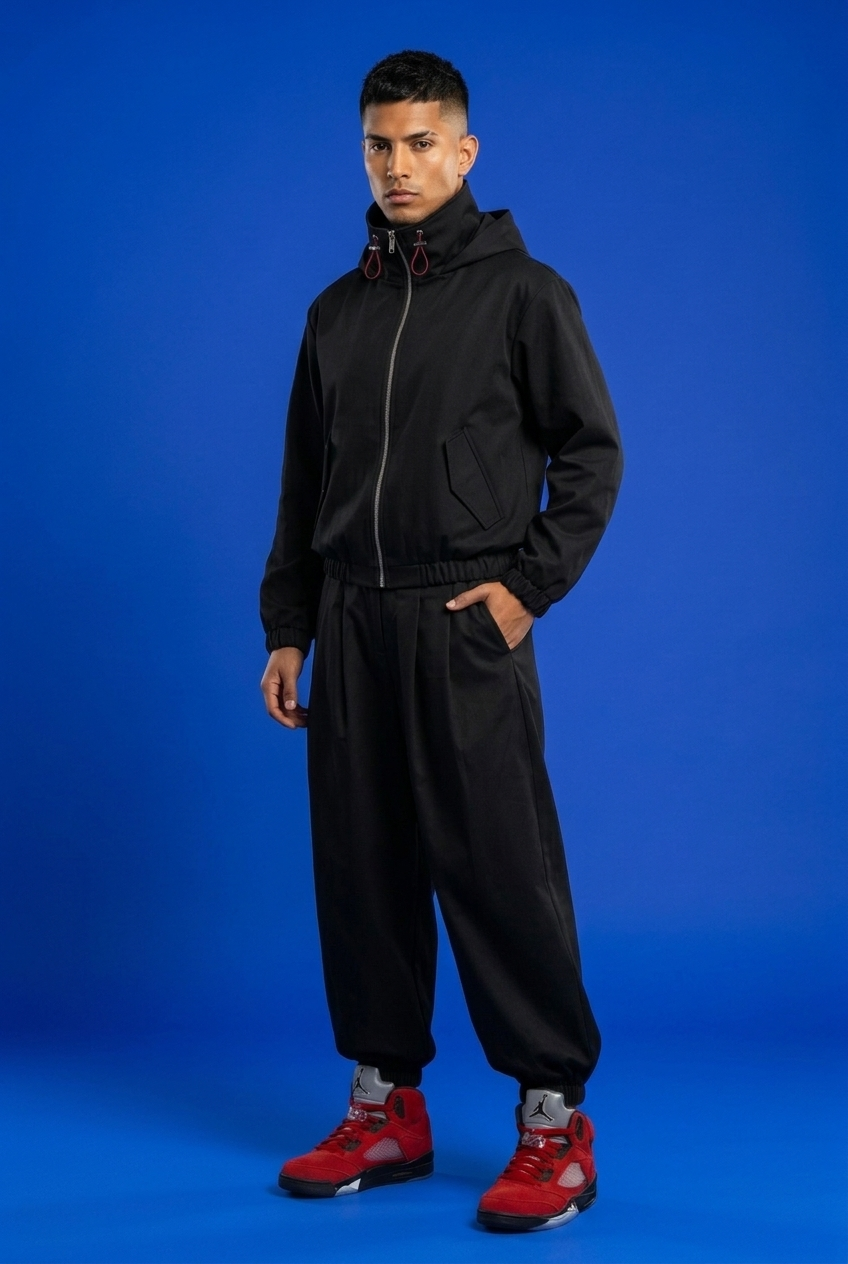
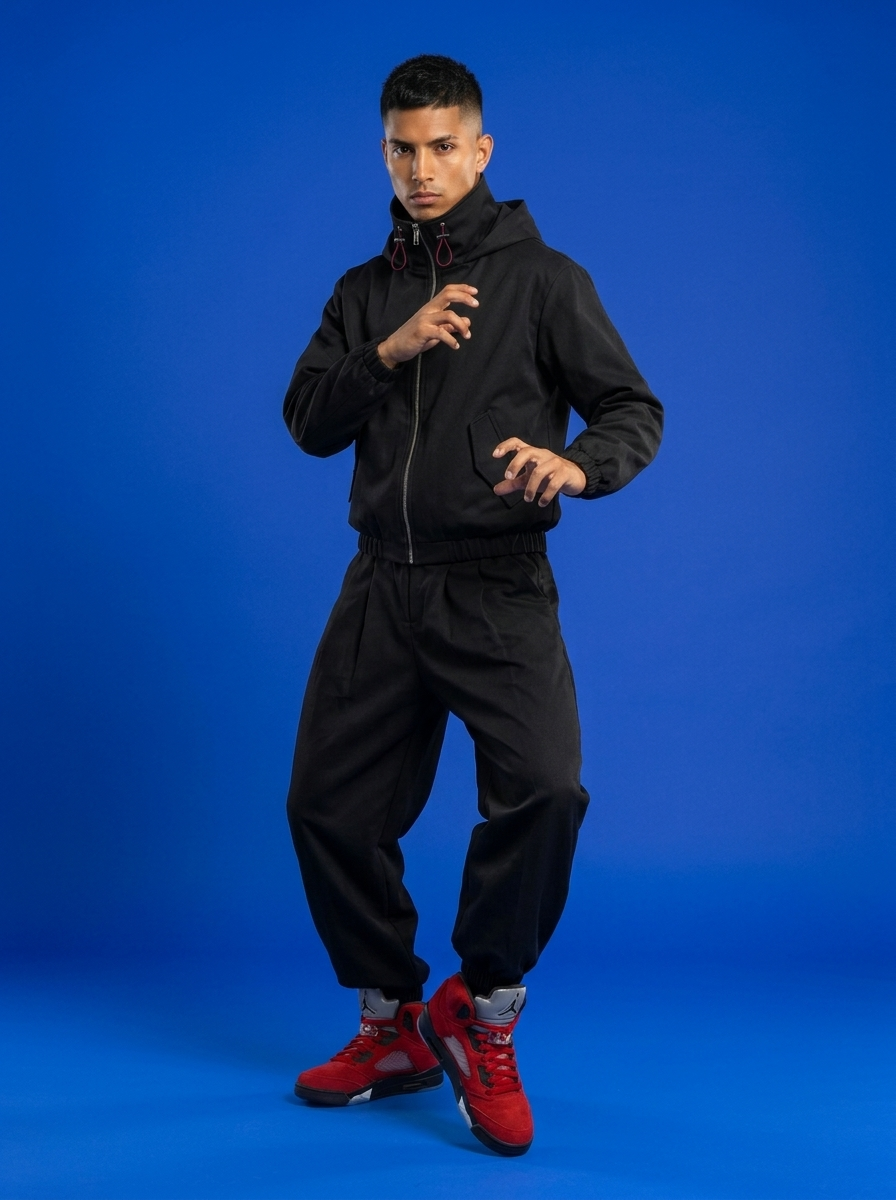
feat(kokusen): actualizar fotografia editorial masculina con pose canónica de combate Jujutsu
- Reemplazar 09-foto-realista-kokusen-hombre.jpg con pose marcial de combate de Yuji Itadori (brazo alzado en guardia con garra, brazo bajo y flexión dinámica de pies)
- Preservar versión anterior en assets/.archive/09-foto-realista-kokusen-hombre-pose-bolsillo.jpg
- Registrar referencia refe-pose-combate-yuji.jpg en references/
- Actualizar SPEC.md, manifest.json e index.ts con la nueva pose y referencias

Changed region(s): [[0.2146, 0.0308, 0.7665, 0.9867], [0.0, 0.8017, 0.0613, 0.8325], [0.5212, 0.5242, 0.5519, 0.555]]

diff --git a/Andreart Brain/01 Brand Context/Colecciones/Kokusen/index.ts b/Andreart Brain/01 Brand Context/Colecciones/Kokusen/index.ts
@@ -166,8 +166,8 @@ export const ASSETS: Record<string, CollectionAsset> = {
     category: 'editorial',
     garment: 'Conjunto Kokusen',
     view: 'editorial-lookbook-hombre',
-    description: 'Fotografía editorial ultra-realista con modelo masculino hispano con corte undercut sobre ciclorama sinfín azul estudio impecable (cero humo), pose de combate Yuji Itadori con mano en el bolsillo, vistiendo el conjunto Kokusen completo y zapatillas Air Jordan 5 Retro Red Suede.',
-    sourceReference: './references/refe-pantalon-globo-02.jpg, ./references/refe-calzado-jordan-5-red-suede.jpg',
+    description: 'Fotografía editorial ultra-realista con modelo masculino hispano con corte undercut sobre ciclorama sinfín azul estudio impecable (cero humo), adoptando fielmente la pose de combate marcial de Yuji Itadori (brazo derecho alzado en guardia a la altura del pecho con garra abierta, brazo izquierdo bajo y juego dinámico de pies), vistiendo el conjunto Kokusen completo y zapatillas Air Jordan 5 Retro Red Suede.',
+    sourceReference: './references/refe-pose-combate-yuji.jpg, ./references/refe-calzado-jordan-5-red-suede.jpg',
     status: 'active',
     approved: true
   }
@@ -191,5 +191,11 @@ export const REFERENCES: Record<string, CollectionReference> = {
     path: './references/refe-calzado-jordan-5-red-suede.jpg',
     type: 'footwear-styling',
     description: 'Referencia de calzado insignia: Zapatillas Air Jordan 5 Retro Red Suede en gamuza carmesí (#D01E29), lengüeta reflectiva plateada 3M y seguro de cordones transparente.'
+  },
+  'refe-pose-combate-yuji': {
+    filename: 'refe-pose-combate-yuji.jpg',
+    path: './references/refe-pose-combate-yuji.jpg',
+    type: 'pose-combat-reference',
+    description: 'Referencia de pose de combate: Postura marcial de Yuji Itadori con guardia frontal alta con garra abierta, brazo bajo en cadera y juego ágil de pies en flexión cinética.'
   }
 };

diff --git a/Andreart Brain/01 Brand Context/Colecciones/Kokusen/SPEC.md b/Andreart Brain/01 Brand Context/Colecciones/Kokusen/SPEC.md
@@ -83,9 +83,9 @@ Diseñado con dedicación artesanal y visión de autor para integrar la presenci
 ![[01 Brand Context/Colecciones/Kokusen/assets/08-foto-realista-kokusen-hero.jpg]]
 *Fotografía Editorial Realista (Mujer):* Modelo de apariencia hispana/latina luciendo el conjunto Kokusen completo en estudio de alta costura sobre fondo sinfín azul estudio impecable (cero humo): blouson técnico en sarga pesada con cuello chimenea estructurado (11 cm), cremallera central continua metálica, tancas carmesí y capota integrada, combinado con el nuevo Pantalón Globo Plisado Kokusen v1.5 con cintura encauchada fruncida (sin cinturón) en postura inspirada en Yuji Itadori con una mano en el bolsillo, descansando sobre las zapatillas de autor **Air Jordan 5 Retro "Red Suede"** en gamuza roja escarlata con lengüeta reflectiva 3M.
 
-### Lookbook Hero: Modelo Masculino Hispano (Corte Undercut)
+### Lookbook Hero: Modelo Masculino Hispano (Pose de Combate Yuji Itadori)
 ![[01 Brand Context/Colecciones/Kokusen/assets/09-foto-realista-kokusen-hombre.jpg]]
-*Fotografía Editorial Realista (Hombre):* Modelo masculino de apariencia hispana/latina con corte undercut texturizado en los laterales y nuca, encarnando la versión de alta costura de Yuji Itadori en postura marcial erguida con la mano en el bolsillo del pantalón globo sobre fondo sinfín azul estudio sin humo, vistiendo el conjunto Kokusen completo y zapatillas **Air Jordan 5 Retro "Red Suede"**.
+*Fotografía Editorial Realista (Hombre):* Modelo masculino de apariencia hispana/latina con corte undercut moderno (laterales rebajados en fade limpio y textura superior definida), encarnando la versión de alta costura de Yuji Itadori en la pose exacta de combate marcial de Jujutsu: brazo derecho alzado en guardia a la altura del pecho con mano en garra abierta, brazo izquierdo bajo ceñido a la cadera, y postura ágil de pies con pierna frontal flexionada en torsión cinética. Todo sobre fondo sinfín azul eléctrico estudio (#0038FF) impecable (sin humo ambiental), vistiendo el conjunto Kokusen completo con pantalón globo de cintura encauchada y zapatillas **Air Jordan 5 Retro "Red Suede"**.
 
 ---
 
@@ -128,6 +128,9 @@ Diseñado con dedicación artesanal y visión de autor para integrar la presenci
 ![[01 Brand Context/Colecciones/Kokusen/references/refe-calzado-jordan-5-red-suede.jpg]]
 *Referencia Oficial de Calzado:* Zapatillas Air Jordan 5 Retro "Red Suede" en gamuza roja carmesí (#D01E29), lengüeta plateada reflectiva 3M, tanca de cordones transparente y dientes de tiburón negros en la media suela. Aporte clave de contraste dinámico para el arquetipo Itadori.
 
+![[01 Brand Context/Colecciones/Kokusen/references/refe-pose-combate-yuji.jpg]]
+*Referencia Oficial de Pose de Combate:* Postura marcial canónica de Yuji Itadori en combate Jujutsu con torso en ángulo 3/4, guardia frontal con mano en garra a la altura del pecho, brazo bajo en cadera y juego ágil de pies en flexión cinética.
+
 ---
 
 ## 🗂 4.3. Manifiesto y Barrel de Activos (`manifest.json` / `index.ts`)
@@ -144,7 +147,7 @@ La colección cuenta con un barrel tipado en TypeScript ([index.ts](file:///User
 | `06-sketch-pantalon-frente` | `06-sketch-pantalon-frente.jpg` | Plano Técnico (Delantero) | Pantalón Globo Plisado (Cintura Encauchada) | `references/refe-pantalon-globo-01.jpg` |
 | `07-sketch-pantalon-atras` | `07-sketch-pantalon-atras.jpg` | Plano Técnico (Trasero) | Pantalón Globo Plisado (Cintura Encauchada) | `references/refe-pantalon-globo-01.jpg` |
 | `08-foto-realista-kokusen-hero` | `08-foto-realista-kokusen-hero.jpg` | Editorial Lookbook (Mujer) | Conjunto Kokusen Total Black | `references/refe-pantalon-globo-02.jpg` + `references/refe-calzado-jordan-5-red-suede.jpg` |
-| `09-foto-realista-kokusen-hombre` | `09-foto-realista-kokusen-hombre.jpg` | Editorial Lookbook (Hombre) | Conjunto Kokusen Total Black | `references/refe-pantalon-globo-02.jpg` + `references/refe-calzado-jordan-5-red-suede.jpg` |
+| `09-foto-realista-kokusen-hombre` | `09-foto-realista-kokusen-hombre.jpg` | Editorial Lookbook (Hombre) | Conjunto Kokusen Total Black | `references/refe-pose-combate-yuji.jpg` + `references/refe-calzado-jordan-5-red-suede.jpg` |
 
 ---
 
